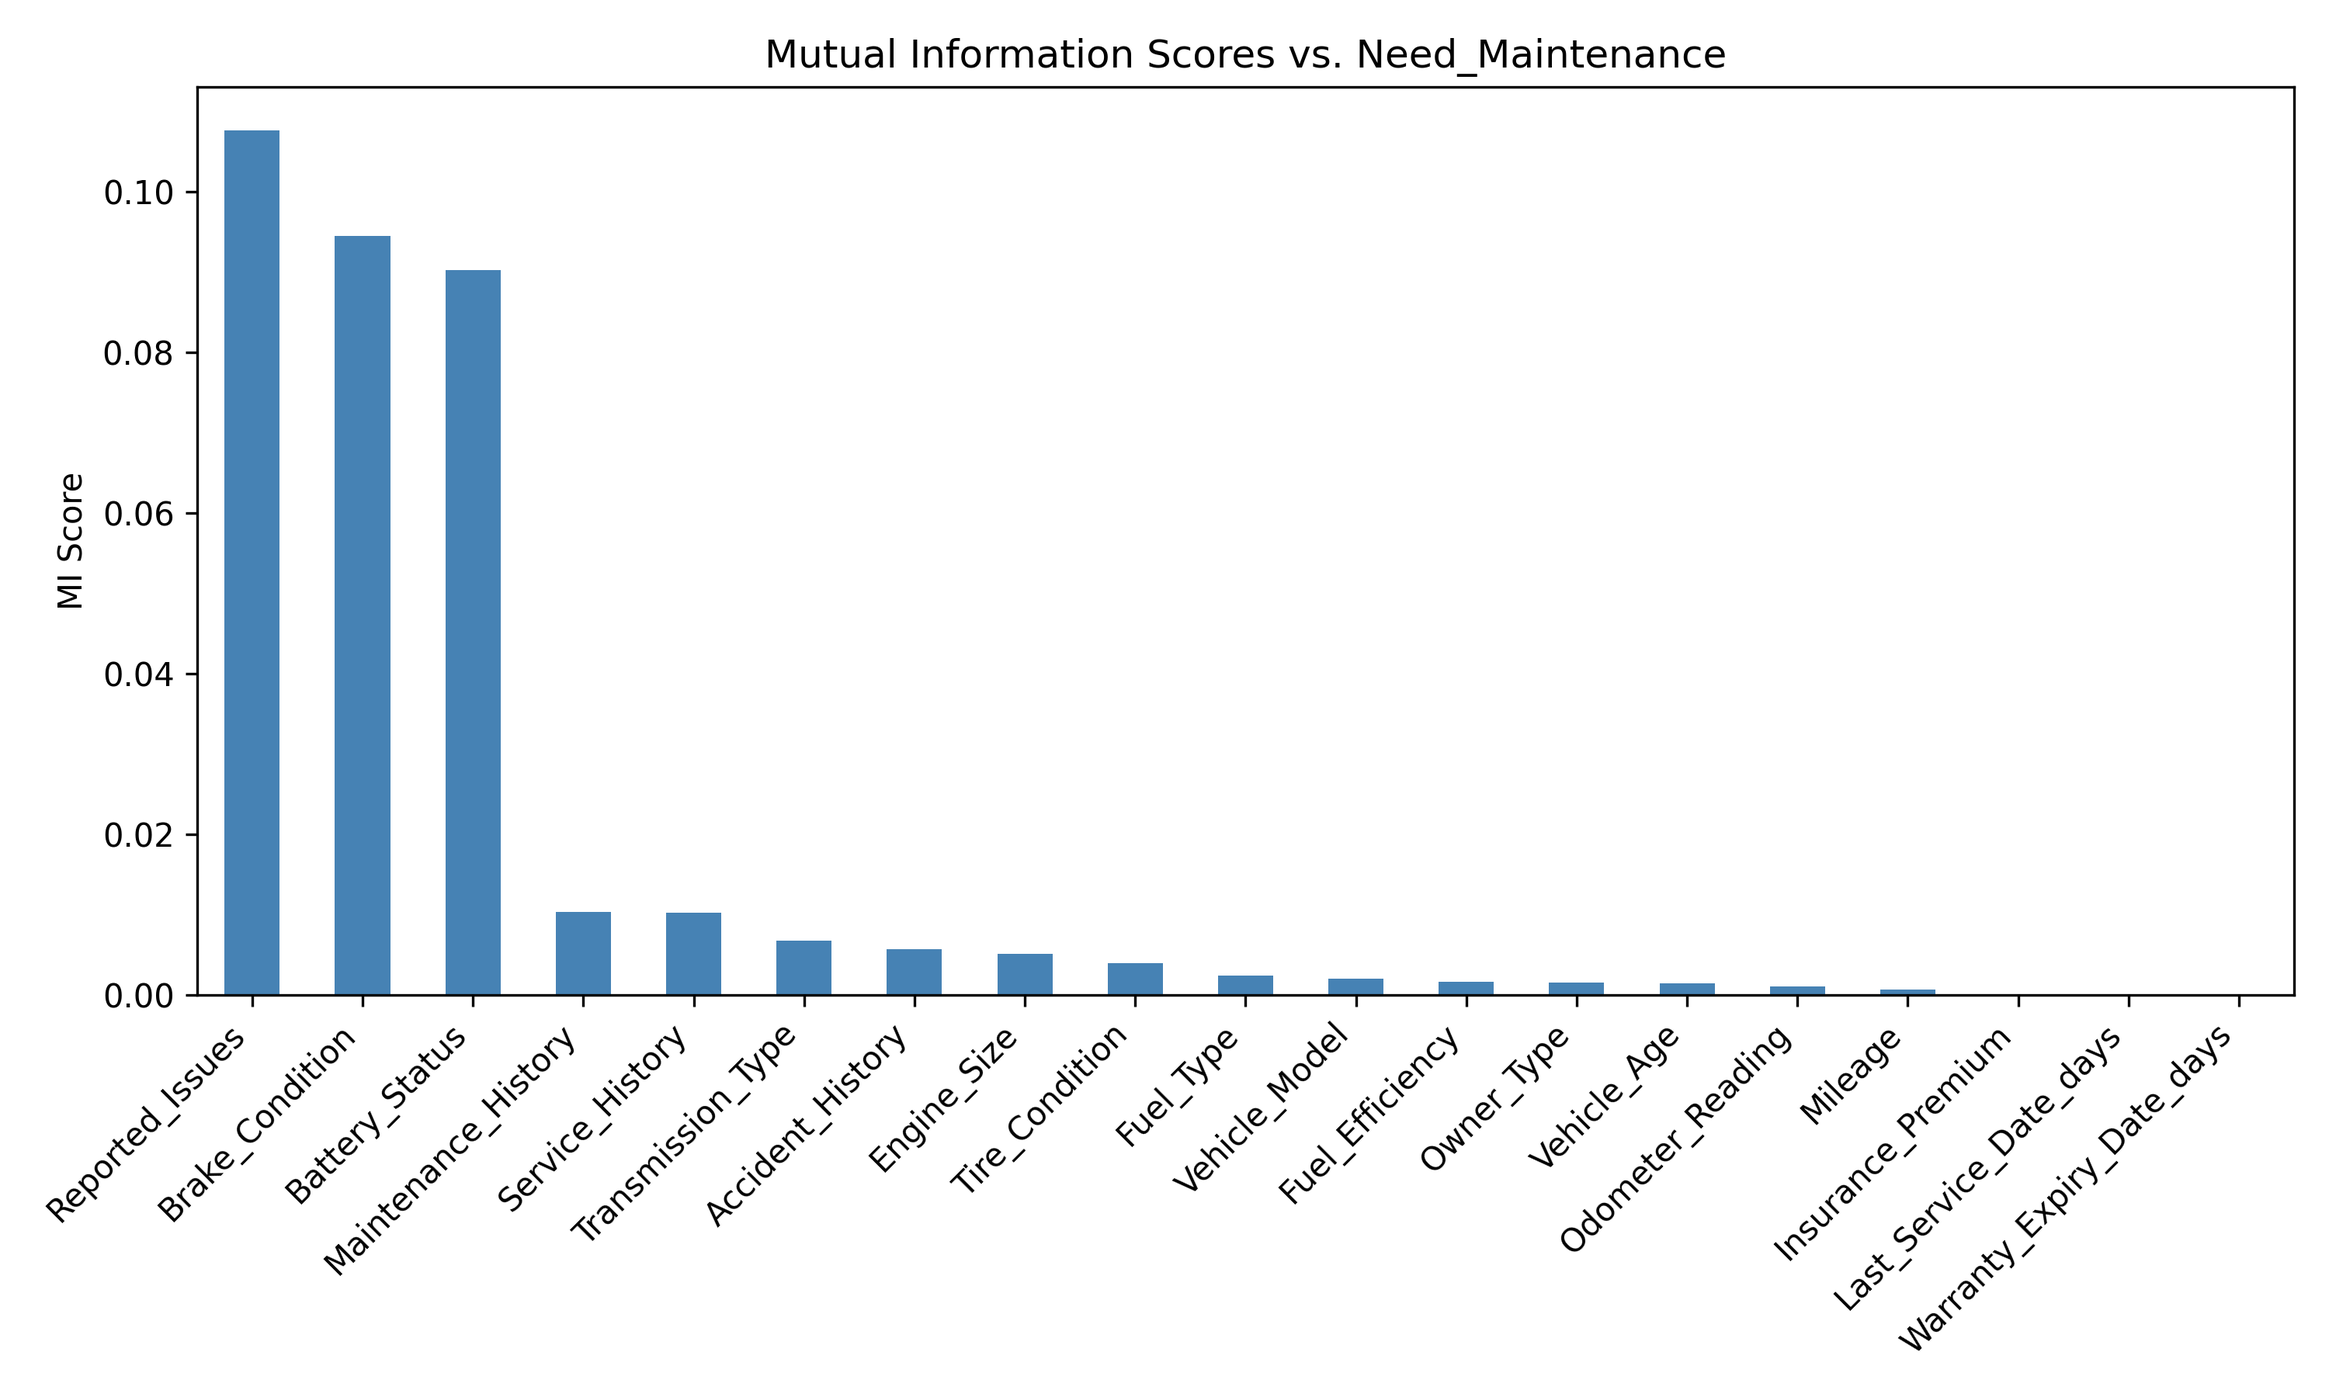
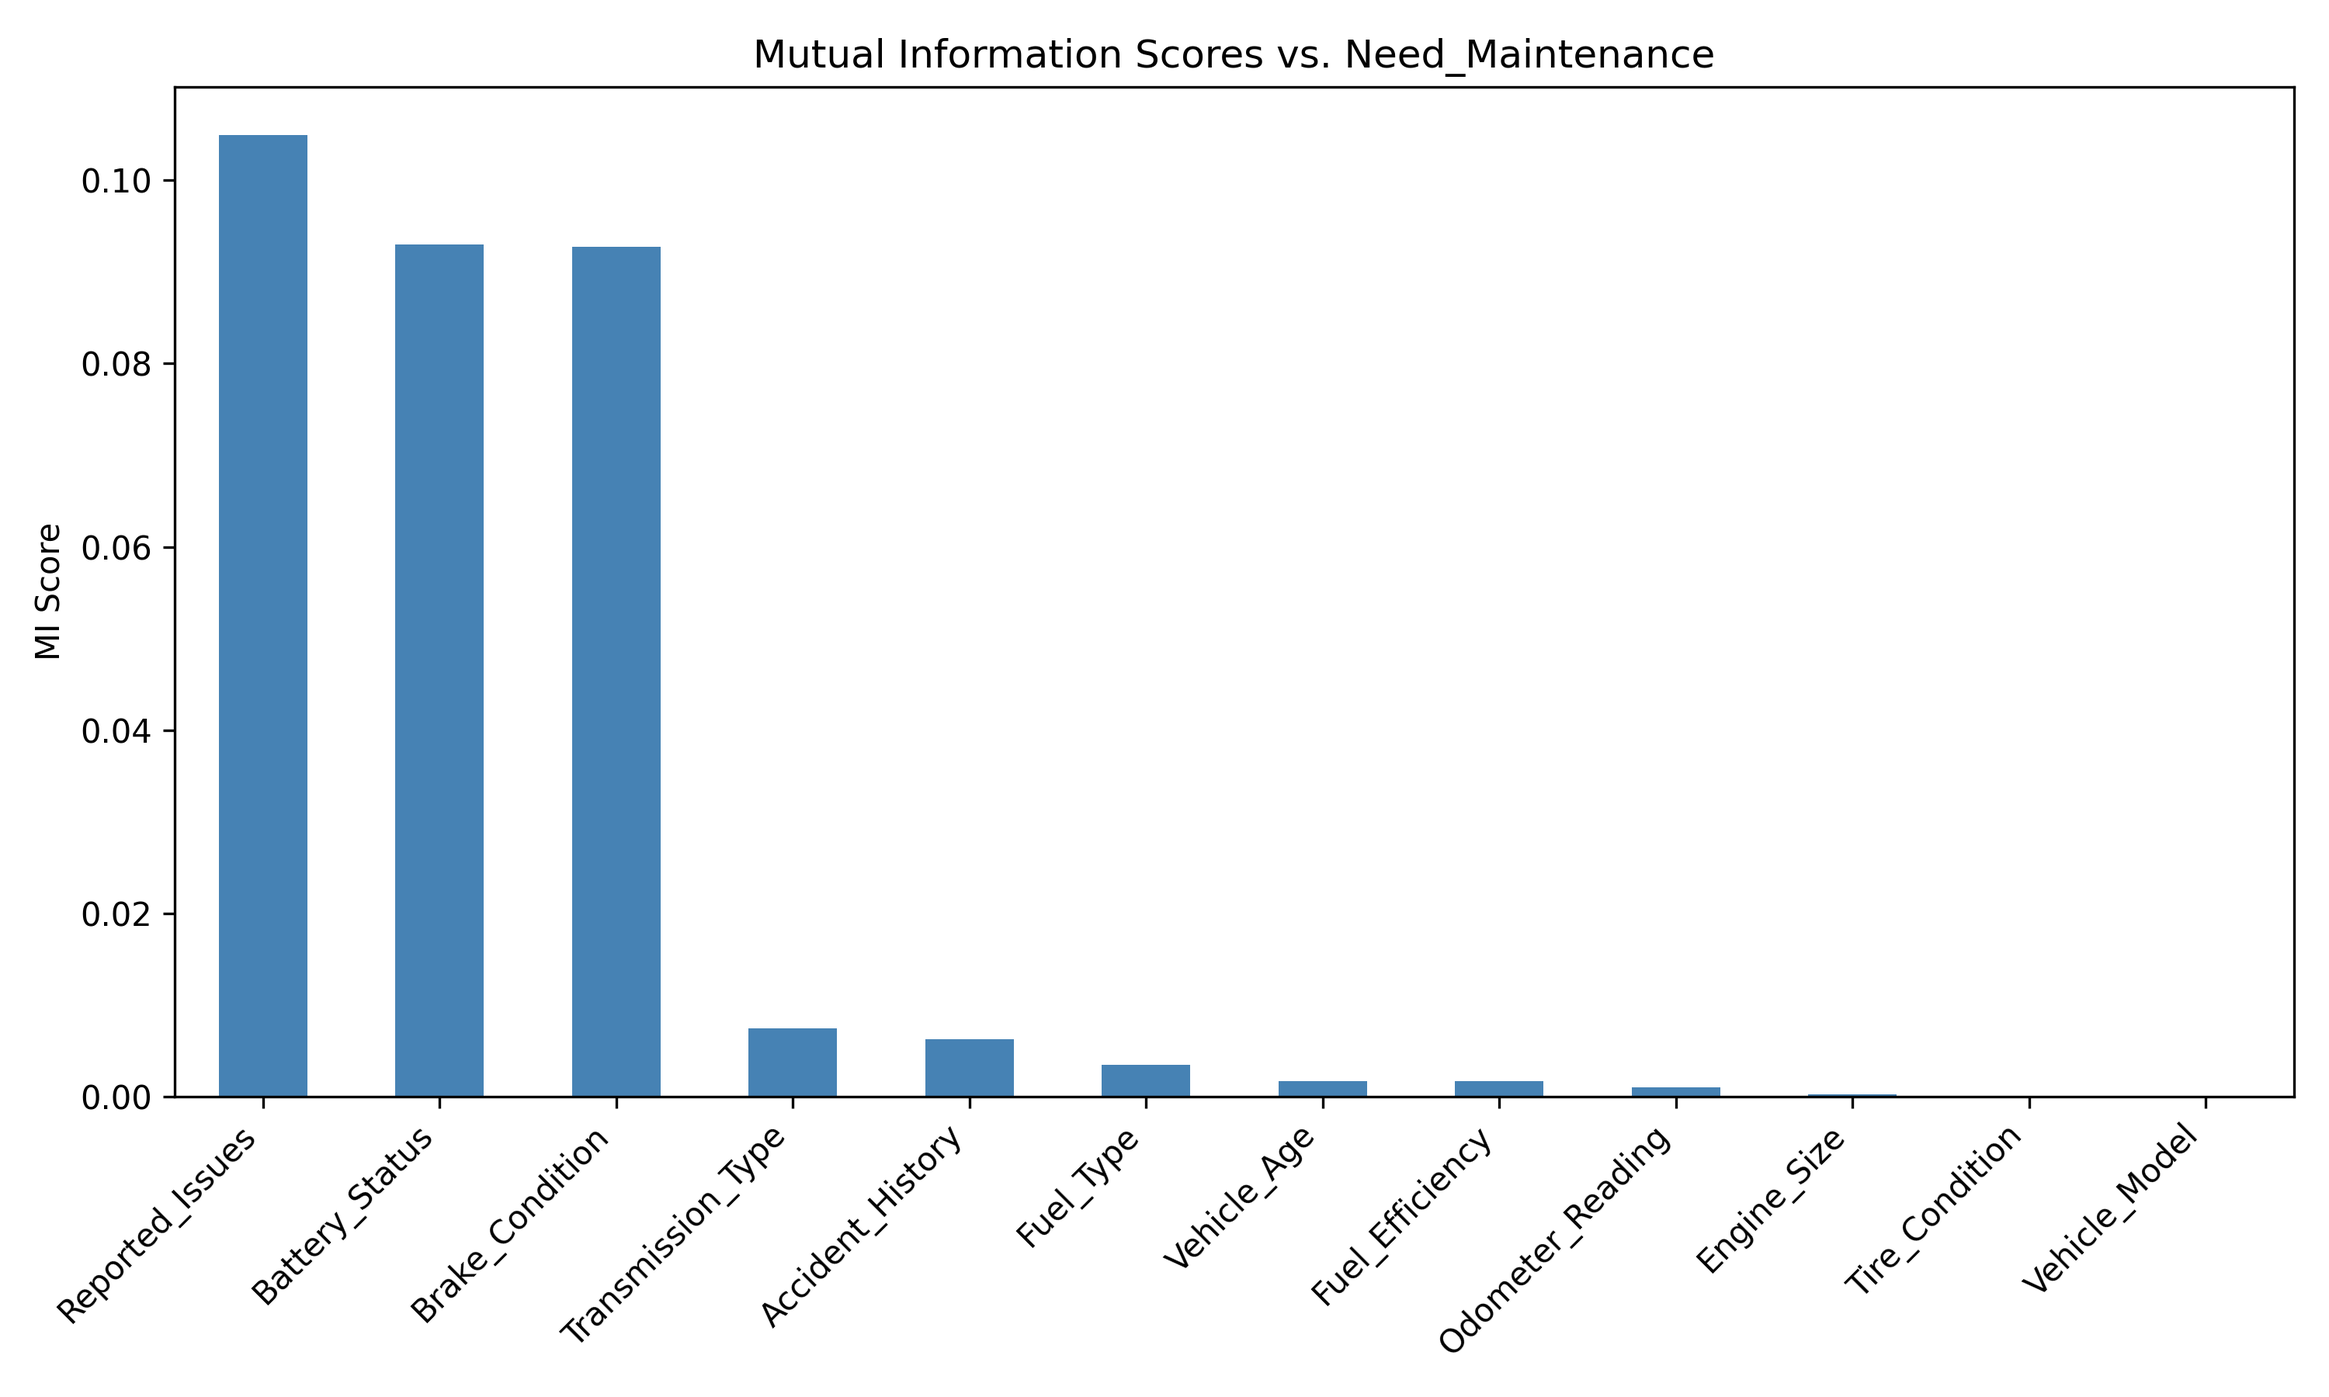
UI changed and features reduced

diff --git a/templates/index.html b/templates/index.html
@@ -20,10 +20,7 @@
         <div class="section-title">Vehicle Metrics</div>
         <div class="card">
             <div class="grid-3">
-                <div class="field">
-                    <label>Mileage</label>
-                    <input type="number" name="Mileage" placeholder="e.g. 45000" required>
-                </div>
+              
                 <div class="field">
                     <label>Vehicle Age (years)</label>
                     <input type="number" name="Vehicle_Age" placeholder="e.g. 5" required>
@@ -40,10 +37,7 @@
                     <label>Fuel Efficiency (km/l)</label>
                     <input type="number" step="0.01" name="Fuel_Efficiency" placeholder="e.g. 14.5" required>
                 </div>
-                <div class="field">
-                    <label>Insurance Premium</label>
-                    <input type="number" name="Insurance_Premium" placeholder="e.g. 8000" required>
-                </div>
+             
             </div>
         </div>
 
@@ -55,22 +49,13 @@
                     <label>Reported Issues</label>
                     <input type="number" name="Reported_Issues" placeholder="e.g. 2" required>
                 </div>
-                <div class="field">
-                    <label>Service History (count)</label>
-                    <input type="number" name="Service_History" placeholder="e.g. 5" required>
-                </div>
+             
                 <div class="field">
                     <label>Accident History (count)</label>
                     <input type="number" name="Accident_History" placeholder="e.g. 1" required>
                 </div>
-                <div class="field">
-                    <label>Last Service Date</label>
-                    <input type="date" name="Last_Service_Date" required>
-                </div>
-                <div class="field">
-                    <label>Warranty Expiry Date</label>
-                    <input type="date" name="Warranty_Expiry_Date" required>
-                </div>
+             
+              
             </div>
         </div>
 
@@ -78,15 +63,7 @@
         <div class="section-title">Condition Assessment</div>
         <div class="card">
             <div class="grid-2">
-                <div class="field">
-                    <label>Maintenance History</label>
-                    <select name="Maintenance_History" required>
-                        <option value="" disabled selected>Select condition</option>
-                        <option value="Poor">Poor</option>
-                        <option value="Average">Average</option>
-                        <option value="Good">Good</option>
-                    </select>
-                </div>
+              
                 <div class="field">
                     <label>Tire Condition</label>
                     <select name="Tire_Condition" required>
@@ -150,15 +127,7 @@
                         <option>Automatic</option>
                     </select>
                 </div>
-                <div class="field">
-                    <label>Owner Type</label>
-                    <select name="Owner_Type" required>
-                        <option value="" disabled selected>Select owner type</option>
-                        <option>First</option>
-                        <option>Second</option>
-                        <option>Third</option>
-                    </select>
-                </div>
+              
             </div>
         </div>
 

diff --git a/src/pipline/prediction_pipeline.py b/src/pipline/prediction_pipeline.py
@@ -25,25 +25,18 @@ def get_latest_preprocessor_path():
 
 class VehicleData:
     def __init__(self,
-                 Mileage,
                  Reported_Issues,
                  Vehicle_Age,
                  Engine_Size,
                  Odometer_Reading,
-                 Insurance_Premium,
-                 Service_History,
                  Accident_History,
                  Fuel_Efficiency,
-                 Maintenance_History,
                  Tire_Condition,
                  Brake_Condition,
                  Battery_Status,
                  Vehicle_Model,
                  Fuel_Type,
                  Transmission_Type,
-                 Owner_Type,
-                 Last_Service_Date,
-                 Warranty_Expiry_Date
                  ):
         """
         VehicleData constructor
@@ -51,18 +44,15 @@ class VehicleData:
         """
         try:
             # Numerical
-            self.Mileage = float(Mileage)
             self.Reported_Issues = int(Reported_Issues)
             self.Vehicle_Age = int(Vehicle_Age)
             self.Engine_Size = float(Engine_Size)
             self.Odometer_Reading = float(Odometer_Reading)
-            self.Insurance_Premium = float(Insurance_Premium)
-            self.Service_History = int(Service_History)
             self.Accident_History = int(Accident_History)
             self.Fuel_Efficiency = float(Fuel_Efficiency)
 
             # Ordinal categorical
-            self.Maintenance_History = Maintenance_History
+          
             self.Tire_Condition = Tire_Condition
             self.Brake_Condition = Brake_Condition
             self.Battery_Status = Battery_Status
@@ -71,11 +61,6 @@ class VehicleData:
             self.Vehicle_Model = Vehicle_Model
             self.Fuel_Type = Fuel_Type
             self.Transmission_Type = Transmission_Type
-            self.Owner_Type = Owner_Type
-
-            # Date fields
-            self.Last_Service_Date = Last_Service_Date
-            self.Warranty_Expiry_Date = Warranty_Expiry_Date
 
         except Exception as e:
             raise MyException(e, sys) from e
@@ -91,12 +76,7 @@ class VehicleData:
             vehicle_input_dict = self.get_vehicle_data_as_dict()
             df = DataFrame(vehicle_input_dict)
 
-            # Convert date columns to days (same as training)
-            for col in ['Last_Service_Date', 'Warranty_Expiry_Date']:
-                df[col] = pd.to_datetime(df[col], errors='coerce')
-                df[col + '_days'] = (REFERENCE_DATE - df[col]).dt.days
-                df.drop(columns=[col], inplace=True)
-
+            
             logging.info(f"Prediction input columns: {df.columns.tolist()}")
             return df
 
@@ -111,18 +91,18 @@ class VehicleData:
         try:
             input_data = {
                 # Numerical
-                "Mileage":            [self.Mileage],
+               
                 "Reported_Issues":    [self.Reported_Issues],
                 "Vehicle_Age":        [self.Vehicle_Age],
                 "Engine_Size":        [self.Engine_Size],
                 "Odometer_Reading":   [self.Odometer_Reading],
-                "Insurance_Premium":  [self.Insurance_Premium],
-                "Service_History":    [self.Service_History],
+                
+             
                 "Accident_History":   [self.Accident_History],
                 "Fuel_Efficiency":    [self.Fuel_Efficiency],
 
                 # Ordinal categorical
-                "Maintenance_History": [self.Maintenance_History],
+            
                 "Tire_Condition":      [self.Tire_Condition],
                 "Brake_Condition":     [self.Brake_Condition],
                 "Battery_Status":      [self.Battery_Status],
@@ -131,11 +111,8 @@ class VehicleData:
                 "Vehicle_Model":       [self.Vehicle_Model],
                 "Fuel_Type":           [self.Fuel_Type],
                 "Transmission_Type":   [self.Transmission_Type],
-                "Owner_Type":          [self.Owner_Type],
+           
 
-                # Date fields (raw — converted in get_vehicle_input_data_frame)
-                "Last_Service_Date":      [self.Last_Service_Date],
-                "Warranty_Expiry_Date":   [self.Warranty_Expiry_Date],
             }
 
             logging.info("Created vehicle data dict")
@@ -183,3 +160,4 @@ class VehicleDataClassifier:
         
 if __name__ == "__main__":
     get_latest_preprocessor_path()
+    

diff --git a/app.py b/app.py
@@ -36,18 +36,16 @@ class DataForm:
         self.request: Request = request
 
         # Numerical fields
-        self.Mileage: Optional[float] = None
         self.Reported_Issues: Optional[int] = None
         self.Vehicle_Age: Optional[int] = None
         self.Engine_Size: Optional[float] = None
         self.Odometer_Reading: Optional[float] = None
-        self.Insurance_Premium: Optional[float] = None
-        self.Service_History: Optional[int] = None
+    
         self.Accident_History: Optional[int] = None
         self.Fuel_Efficiency: Optional[float] = None
 
         # Ordinal categorical fields
-        self.Maintenance_History: Optional[str] = None
+    
         self.Tire_Condition: Optional[str] = None
         self.Brake_Condition: Optional[str] = None
         self.Battery_Status: Optional[str] = None
@@ -60,29 +58,25 @@ class DataForm:
         self.Vehicle_Model: Optional[str] = None
         self.Fuel_Type: Optional[str] = None
         self.Transmission_Type: Optional[str] = None
-        self.Owner_Type: Optional[str] = None
+     
 
         # Date fields
-        self.Last_Service_Date: Optional[str] = None
-        self.Warranty_Expiry_Date: Optional[str] = None
+   
 
     async def get_vehicle_data(self):
         """Retrieve and assign form data to class attributes."""
         form = await self.request.form()
 
         # Numerical
-        self.Mileage = form.get("Mileage")
+      
         self.Reported_Issues = form.get("Reported_Issues")
         self.Vehicle_Age = form.get("Vehicle_Age")
         self.Engine_Size = form.get("Engine_Size")
         self.Odometer_Reading = form.get("Odometer_Reading")
-        self.Insurance_Premium = form.get("Insurance_Premium")
-        self.Service_History = form.get("Service_History")
         self.Accident_History = form.get("Accident_History")
         self.Fuel_Efficiency = form.get("Fuel_Efficiency")
 
         # Ordinal categorical
-        self.Maintenance_History = form.get("Maintenance_History")
         self.Tire_Condition = form.get("Tire_Condition")
         self.Brake_Condition = form.get("Brake_Condition")
         self.Battery_Status = form.get("Battery_Status")
@@ -91,12 +85,8 @@ class DataForm:
         self.Vehicle_Model = form.get("Vehicle_Model")
         self.Fuel_Type = form.get("Fuel_Type")
         self.Transmission_Type = form.get("Transmission_Type")
-        self.Owner_Type = form.get("Owner_Type")
-
-        # Dates
-        self.Last_Service_Date = form.get("Last_Service_Date")
-        self.Warranty_Expiry_Date = form.get("Warranty_Expiry_Date")
-
+  
+       
 
 @app.get("/", tags=["authentication"])
 async def index(request: Request):
@@ -125,25 +115,19 @@ async def predictRouteClient(request: Request):
         await form.get_vehicle_data()
 
         vehicle_data = VehicleData(
-            Mileage=form.Mileage,
+            
             Reported_Issues=form.Reported_Issues,
             Vehicle_Age=form.Vehicle_Age,
             Engine_Size=form.Engine_Size,
             Odometer_Reading=form.Odometer_Reading,
-            Insurance_Premium=form.Insurance_Premium,
-            Service_History=form.Service_History,
             Accident_History=form.Accident_History,
             Fuel_Efficiency=form.Fuel_Efficiency,
-            Maintenance_History=form.Maintenance_History,
             Tire_Condition=form.Tire_Condition,
             Brake_Condition=form.Brake_Condition,
             Battery_Status=form.Battery_Status,
             Vehicle_Model=form.Vehicle_Model,
             Fuel_Type=form.Fuel_Type,
             Transmission_Type=form.Transmission_Type,
-            Owner_Type=form.Owner_Type,
-            Last_Service_Date=form.Last_Service_Date,
-            Warranty_Expiry_Date=form.Warranty_Expiry_Date,
         )
 
         vehicle_df = vehicle_data.get_vehicle_input_data_frame()

diff --git a/src/components/data_transformation.py b/src/components/data_transformation.py
@@ -42,14 +42,12 @@ class DataTransformation:
         df = df.reset_index(drop=True) # Replace missing values with 0 (or use a more sophisticated strategy)
         return df
     
-    def convert_date_to_days(self, df):
-        """Convert date columns to days."""
-        logging.info("Converting date columns to days")
-        for col in self._schema_config['date_columns']:
-            if col in df.columns:
-                df[col] = pd.to_datetime(df[col], errors="coerce")
-                df[col + "_days"] = (REFERENCE_DATE - df[col]).dt.days
-                df.drop(columns=[col], inplace=True)
+    def drop_not_important_features(self, df):
+        """Drop features that are not important based on domain knowledge or feature importance analysis."""
+        logging.info("Dropping features that are not important based on domain knowledge or feature importance analysis")
+        features_to_drop = DROP_FEATURES
+        features_to_drop = [col for col in features_to_drop if col in df.columns]
+        df.drop(columns=features_to_drop, inplace=True)
         return df
     
     # Cap outliers in all numerical columns (except target) using IQR method to clip extreme values within acceptable bounds
@@ -74,7 +72,7 @@ class DataTransformation:
                 df[col] = np.where(df[col] > upper_bound, upper_bound, df[col])
 
         return df
-    
+
     def encode_categorical_variables(self, df):
         """ Encode categorical columns, compute Spearman correlation heatmap, calculate mutual information scores,
              and drop features with zero predictive power toward the target variable
@@ -199,7 +197,7 @@ class DataTransformation:
             logging.info("data loaded")
             # Apply transformation steps to train
             df=self.handle_duplicates_and_missing_values(df)
-            df=self.convert_date_to_days(df)
+            df=self.drop_not_important_features(df)
             df=self.encode_categorical_variables(df)
             X, y = self.split_features_and_target(df)
             X_train, X_test, y_train, y_test = train_test_split(X, y, test_size=0.2, random_state=42, stratify=y)

diff --git a/src/constants/__init__.py b/src/constants/__init__.py
@@ -59,8 +59,9 @@ ORDINAL_FEATURES={
             "Brake_Condition":     ["Worn Out", "Good", "New"],
             "Battery_Status":      ["Weak", "Good", "Strong"],
         }
-
+DROP_FEATURES=["Maintenance_History","Mileage", "Last_Service_Date", "Warranty_Expiry_Date","Insurance_Premium", "Service_History", "Owner_Type"]
 NOMINAL_FEATURES = ["Vehicle_Model", "Fuel_Type", "Transmission_Type", "Owner_Type"]
+
 """
 MODEL TRAINER related constant start with MODEL_TRAINER var name
 """
